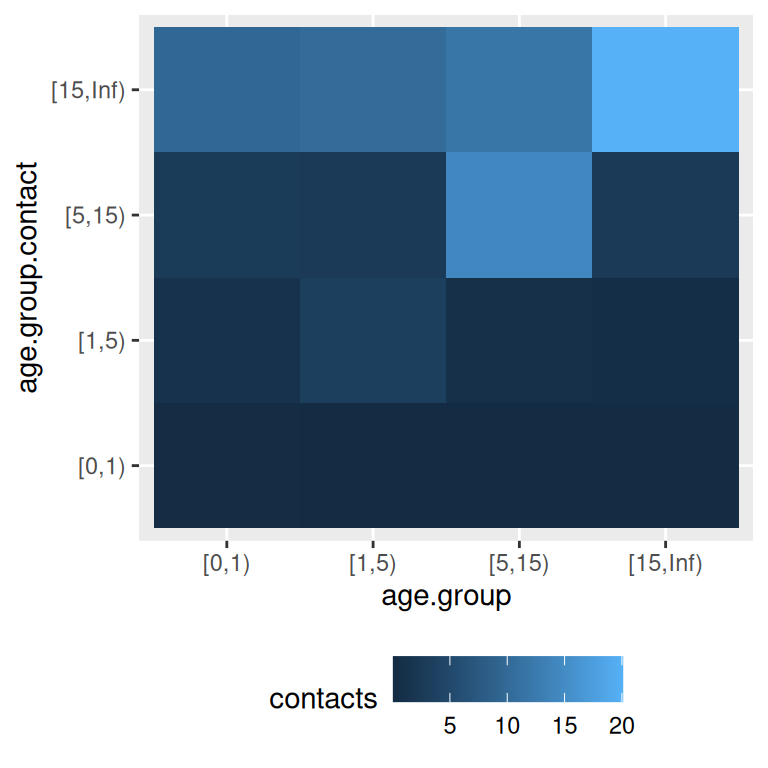
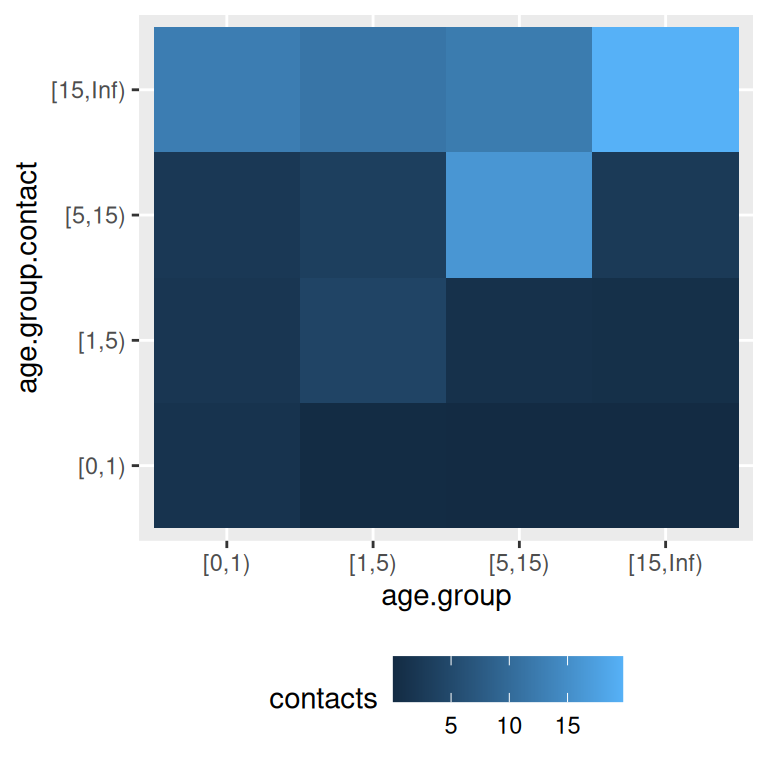
Deploying to gh-pages from @ epiforecasts/socialmixr@a06c47d3147f7692d48e58f9961459cf93751238 🚀

diff --git a/articles/intro.html b/articles/intro.html
@@ -230,11 +230,11 @@
 <span><span class="va">mr</span> <span class="op">&lt;-</span> <span class="fu"><a href="https://rdrr.io/r/base/funprog.html" class="external-link">Reduce</a></span><span class="op">(</span><span class="st">"+"</span>, <span class="fu"><a href="https://rdrr.io/r/base/lapply.html" class="external-link">lapply</a></span><span class="op">(</span><span class="va">m</span><span class="op">[</span><span class="st">"matrix"</span>, <span class="op">]</span>, <span class="kw">function</span><span class="op">(</span><span class="va">x</span><span class="op">)</span> <span class="va">x</span> <span class="op">/</span> <span class="fu"><a href="https://rdrr.io/r/base/nrow.html" class="external-link">ncol</a></span><span class="op">(</span><span class="va">m</span><span class="op">)</span><span class="op">)</span><span class="op">)</span></span>
 <span><span class="va">mr</span></span>
 <span><span class="co">#&gt;           contact.age.group</span></span>
-<span><span class="co">#&gt; age.group       [0,1)     [1,5)    [5,15)  [15,Inf)</span></span>
-<span><span class="co">#&gt;   [0,1)    0.35261438 1.2866013  2.836601  9.584314</span></span>
-<span><span class="co">#&gt;   [1,5)    0.18908325 3.3665625  2.658058 10.211648</span></span>
-<span><span class="co">#&gt;   [5,15)   0.05798830 0.9008513 14.383600 11.787795</span></span>
-<span><span class="co">#&gt;   [15,Inf) 0.05685988 0.6490265  2.611803 20.082661</span></span></code></pre></div>
+<span><span class="co">#&gt; age.group       [0,1)     [1,5)    [5,15) [15,Inf)</span></span>
+<span><span class="co">#&gt;   [0,1)    1.43887446 1.8428571  2.194459 12.66840</span></span>
+<span><span class="co">#&gt;   [1,5)    0.19157230 4.1331350  3.300533 11.51485</span></span>
+<span><span class="co">#&gt;   [5,15)   0.03328133 1.0165403 16.090628 12.40463</span></span>
+<span><span class="co">#&gt;   [15,Inf) 0.06954720 0.8279343  2.548461 19.74798</span></span></code></pre></div>
 </div>
 </section><section class="section level2"><h2 id="demography">Demography<a class="anchor" aria-label="anchor" href="#demography"></a>
 </h2>

diff --git a/index.html b/index.html
@@ -107,7 +107,7 @@
 <div class="section level3">
 <h3 id="issue-contributors">Issue Contributors<a class="anchor" aria-label="anchor" href="#issue-contributors"></a>
 </h3>
-<p><a href="https://github.com/epiforecasts/socialmixr/issues?q=is%3Aissue+commenter%3Avikkytom" class="external-link">vikkytom</a>, <a href="https://github.com/epiforecasts/socialmixr/issues?q=is%3Aissue+commenter%3Abahadzie" class="external-link">bahadzie</a>, <a href="https://github.com/epiforecasts/socialmixr/issues?q=is%3Aissue+commenter%3Ajoshwlambert" class="external-link">joshwlambert</a></p>
+<p><a href="https://github.com/epiforecasts/socialmixr/issues?q=is%3Aissue+commenter%3Avikkytom" class="external-link">vikkytom</a>, <a href="https://github.com/epiforecasts/socialmixr/issues?q=is%3Aissue+commenter%3Ajoshwlambert" class="external-link">joshwlambert</a>, <a href="https://github.com/epiforecasts/socialmixr/issues?q=is%3Aissue+commenter%3Abahadzie" class="external-link">bahadzie</a>, <a href="https://github.com/epiforecasts/socialmixr/issues?q=is%3Aissue+commenter%3Acoderabbitai" class="external-link">coderabbitai</a></p>
 <!-- markdownlint-enable -->
 <!-- prettier-ignore-end -->
 <!-- ALL-CONTRIBUTORS-LIST:END -->

diff --git a/articles/intro.md b/articles/intro.md
@@ -223,11 +223,11 @@ m <- suppressWarnings(
 mr <- Reduce("+", lapply(m["matrix", ], function(x) x / ncol(m)))
 mr
 #>           contact.age.group
-#> age.group       [0,1)     [1,5)    [5,15)  [15,Inf)
-#>   [0,1)    0.35261438 1.2866013  2.836601  9.584314
-#>   [1,5)    0.18908325 3.3665625  2.658058 10.211648
-#>   [5,15)   0.05798830 0.9008513 14.383600 11.787795
-#>   [15,Inf) 0.05685988 0.6490265  2.611803 20.082661
+#> age.group       [0,1)     [1,5)    [5,15) [15,Inf)
+#>   [0,1)    1.43887446 1.8428571  2.194459 12.66840
+#>   [1,5)    0.19157230 4.1331350  3.300533 11.51485
+#>   [5,15)   0.03328133 1.0165403 16.090628 12.40463
+#>   [15,Inf) 0.06954720 0.8279343  2.548461 19.74798
 ```
 
 ## Demography

diff --git a/index.md b/index.md
@@ -101,5 +101,6 @@ specification. Contributions of any kind are welcome!
 ### Issue Contributors
 
 [vikkytom](https://github.com/epiforecasts/socialmixr/issues?q=is%3Aissue+commenter%3Avikkytom),
+[joshwlambert](https://github.com/epiforecasts/socialmixr/issues?q=is%3Aissue+commenter%3Ajoshwlambert),
 [bahadzie](https://github.com/epiforecasts/socialmixr/issues?q=is%3Aissue+commenter%3Abahadzie),
-[joshwlambert](https://github.com/epiforecasts/socialmixr/issues?q=is%3Aissue+commenter%3Ajoshwlambert)
+[coderabbitai](https://github.com/epiforecasts/socialmixr/issues?q=is%3Aissue+commenter%3Acoderabbitai)